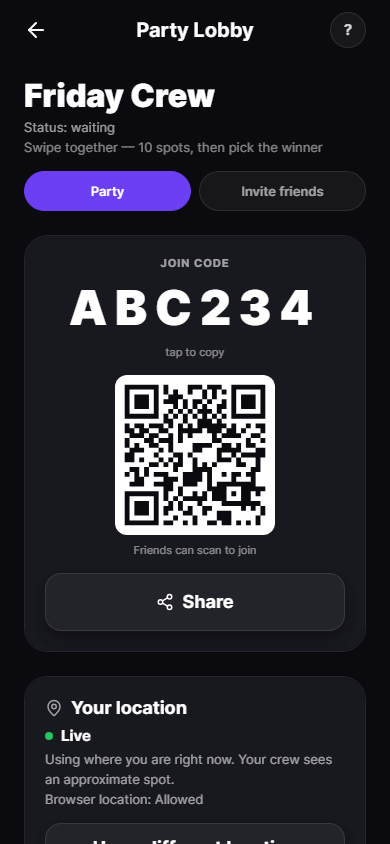
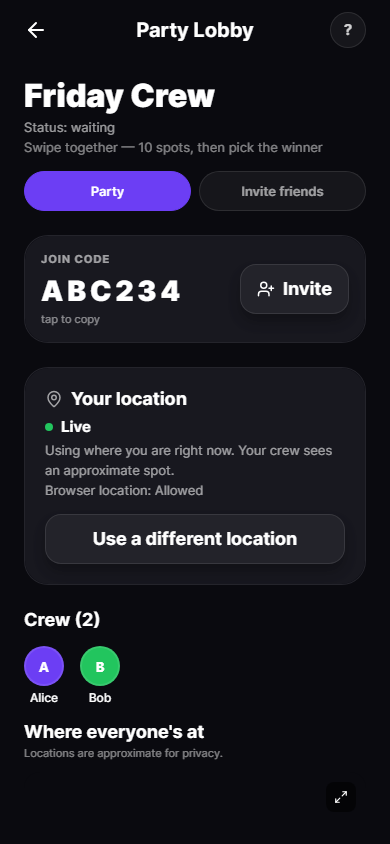
Lobby: move code, QR and Share to Invite friends; compact code row with Invite on Party tab

Changed region(s): [[0.0615, 0.2773, 0.9231, 1.0], [0.6154, 0.3081, 0.8615, 0.4005]]

diff --git a/mobile/src/screens/PartyLobbyScreen.tsx b/mobile/src/screens/PartyLobbyScreen.tsx
@@ -4,7 +4,7 @@ import { Chip, ScreenHeader, Tap } from '../components/kit';
 import { useNavigation, useRoute, useFocusEffect } from '@react-navigation/native';
 import { SafeAreaView } from 'react-native-safe-area-context';
 import Animated, { FadeInDown } from 'react-native-reanimated';
-import { Maximize2, Share2 } from '../components/icons';
+import { Maximize2, Share2, UserPlus } from '../components/icons';
 import GradientButton from '../components/GradientButton';
 import JoinQr from '../components/JoinQr';
 import { joinUrl } from '../services/joinLink';
@@ -207,11 +207,26 @@ export default function PartyLobbyScreen() {
                                 <Text style={styles.inviteHint}>
                                     Share your party code with friends — they can join in LinkdUp with this code.
                                 </Text>
-                                <GlassCard style={{ marginBottom: 16, alignItems: 'center' }}>
-                                    <Text style={styles.codeLabel}>CODE</Text>
+                                <GlassCard style={{ marginBottom: 24, alignItems: 'center' }}>
+                                    <Text style={styles.codeLabel}>JOIN CODE</Text>
                                     <Tap onPress={handleCopy} accessibilityLabel={`Copy join code ${code ?? ''}`} activeOpacity={0.8}>
                                         <Text style={styles.code}>{code ?? '------'}</Text>
                                     </Tap>
+                                    <Text style={styles.tapHint}>tap to copy</Text>
+                                    {code ? (
+                                        <View style={styles.qr}>
+                                            <JoinQr value={link} label={`QR code to join with ${code}`} />
+                                            <Text style={styles.tapHint}>Friends can scan to join</Text>
+                                        </View>
+                                    ) : null}
+                                    <GradientButton
+                                        title="Share"
+                                        variant="ghost"
+                                        onPress={handleShare}
+                                        disabled={!code}
+                                        leftIcon={<Share2 size={18} color={colors.textPrimary} />}
+                                        style={styles.shareBtn}
+                                    />
                                 </GlassCard>
                                 <Text style={styles.crewLabel}>Your friends</Text>
                                 {friendsList.length === 0 ? (
@@ -230,26 +245,21 @@ export default function PartyLobbyScreen() {
                         {lobbyTab === 'party' && (
                         <>
                         <View ref={codeCardRef}>
-                        <GlassCard style={{ marginVertical: 24, alignItems: 'center' }}>
-                            <Text style={styles.codeLabel}>JOIN CODE</Text>
-                            <Tap onPress={handleCopy} accessibilityLabel={`Copy join code ${code ?? ''}`} activeOpacity={0.8}>
-                                <Text style={styles.code}>{code ?? '------'}</Text>
-                            </Tap>
-                            <Text style={styles.tapHint}>tap to copy</Text>
-                            {code ? (
-                                <View style={styles.qr}>
-                                    <JoinQr value={link} label={`QR code to join with ${code}`} />
-                                    <Text style={styles.tapHint}>Friends can scan to join</Text>
-                                </View>
-                            ) : null}
-                            <GradientButton
-                                title="Share"
-                                variant="ghost"
-                                onPress={handleShare}
-                                disabled={!code}
-                                leftIcon={<Share2 size={18} color={colors.textPrimary} />}
-                                style={styles.shareBtn}
-                            />
+                        <GlassCard style={{ marginVertical: 24 }} padding={16}>
+                            <View style={styles.codeRow}>
+                                <Tap onPress={handleCopy} accessibilityLabel={`Copy join code ${code ?? ''}`} activeOpacity={0.8} style={{ flex: 1 }}>
+                                    <Text style={styles.codeLabel}>JOIN CODE</Text>
+                                    <Text style={styles.codeCompact}>{code ?? '------'}</Text>
+                                    <Text style={[styles.tapHint, { marginTop: 4 }]}>tap to copy</Text>
+                                </Tap>
+                                <GradientButton
+                                    title="Invite"
+                                    variant="ghost"
+                                    size="md"
+                                    onPress={() => setLobbyTab('invite')}
+                                    leftIcon={<UserPlus size={18} color={colors.textPrimary} />}
+                                />
+                            </View>
                         </GlassCard>
                         </View>
 
@@ -389,6 +399,8 @@ function makeStyles(c: AppColors, r: ColorRoles) {
         code: { color: c.textPrimary, fontFamily: 'Inter_900Black', fontSize: 48, letterSpacing: 8 },
         tapHint: { color: c.text40, fontSize: 11, marginTop: 8, fontFamily: 'Inter_400Regular' },
         qr: { alignItems: 'center', marginTop: 16 },
+        codeRow: { flexDirection: 'row', alignItems: 'center', gap: 12 },
+        codeCompact: { color: c.textPrimary, fontFamily: 'Inter_900Black', fontSize: 28, letterSpacing: 4 },
         shareBtn: { alignSelf: 'stretch', marginTop: 16 },
         crewLabel: { color: c.textPrimary, fontFamily: 'Inter_700Bold', fontSize: 18, marginBottom: 16 },
         crew: { flexDirection: 'row', flexWrap: 'wrap' },

diff --git a/mobile/screens-test/screens.test.js b/mobile/screens-test/screens.test.js
@@ -475,12 +475,35 @@ describe('PartyLobby', () => {
         }
     });
 
-    test('the back arrow, join code and Share are named buttons and Invite friends is a tab', async () => {
+    async function showInvite() {
+        await show(PartyLobbyScreen);
+        fireEvent.click(screen.getByRole('tab', { name: 'Invite friends' }));
+        await settle();
+    }
+
+    test('the Party tab keeps a compact join code and an Invite button, without the QR code or Share', async () => {
         await show(PartyLobbyScreen);
         button(/back/i);
         screen.getByRole('tab', { name: 'Invite friends' });
         button('Copy join code ABC234');
+        button('Invite');
+        expect(screen.queryByRole('button', { name: 'Share' })).toBeNull();
+        expect(screen.queryByRole('img', { name: 'QR code to join with ABC234' })).toBeNull();
+        expect(screen.queryByText('Friends can scan to join')).toBeNull();
+    });
+
+    test('Invite opens the Invite friends tab with the code, QR code, scan line, Share and friends list', async () => {
+        await show(PartyLobbyScreen);
+        fireEvent.click(button('Invite'));
+        await settle();
+        expect(screen.getByRole('tab', { name: 'Invite friends' }).getAttribute('aria-selected')).toBe('true');
+        expect(screen.getAllByRole('button', { name: 'Copy join code ABC234' })).toHaveLength(1);
+        screen.getByRole('img', { name: 'QR code to join with ABC234' });
+        screen.getByText('Friends can scan to join');
         button('Share');
+        screen.getByText('Your friends');
+        expect(screen.queryByText('CODE')).toBeNull();
+        expect(screen.queryByRole('button', { name: 'Invite' })).toBeNull();
     });
 
     describe('sharing the join code', () => {
@@ -499,8 +522,8 @@ describe('PartyLobby', () => {
         });
         const toasts = () => dialogs.getSnapshot().toasts.map((t) => t.message);
 
-        test('tapping the code copies it and says Code copied', async () => {
-            await show(PartyLobbyScreen);
+        test.each([['Party', show.bind(null, PartyLobbyScreen)], ['Invite friends', showInvite]])('tapping the code on the %s tab copies it and says Code copied', async (_, open) => {
+            await open();
             fireEvent.click(button('Copy join code ABC234'));
             await settle();
             expect(writeText).toHaveBeenCalledWith('ABC234');
@@ -510,7 +533,7 @@ describe('PartyLobby', () => {
         test('Share uses the Web Share API with the join link when the browser has it', async () => {
             const share = jest.fn(async () => {});
             Object.defineProperty(nav, 'share', { value: share, configurable: true });
-            await show(PartyLobbyScreen);
+            await showInvite();
             fireEvent.click(button('Share'));
             await settle();
             expect(share).toHaveBeenCalledWith(expect.objectContaining({ url: 'http://localhost/join/ABC234' }));
@@ -518,7 +541,7 @@ describe('PartyLobby', () => {
         });
 
         test('Share without the Web Share API copies the invite and says Code copied', async () => {
-            await show(PartyLobbyScreen);
+            await showInvite();
             fireEvent.click(button('Share'));
             await settle();
             expect(writeText).toHaveBeenCalledWith(expect.stringContaining('ABC234'));
@@ -529,15 +552,15 @@ describe('PartyLobby', () => {
         test('cancelling the share sheet does not copy', async () => {
             const share = jest.fn(async () => { throw Object.assign(new Error('cancel'), { name: 'AbortError' }); });
             Object.defineProperty(nav, 'share', { value: share, configurable: true });
-            await show(PartyLobbyScreen);
+            await showInvite();
             fireEvent.click(button('Share'));
             await settle();
             expect(writeText).not.toHaveBeenCalled();
         });
     });
 
-    test('the lobby shows a QR code of the join link', async () => {
-        await show(PartyLobbyScreen);
+    test('the Invite friends tab shows a QR code of the join link', async () => {
+        await showInvite();
         const qr = screen.getByRole('img', { name: 'QR code to join with ABC234' });
         expect(qr.querySelector('path')).not.toBeNull();
     });

diff --git a/mobile/src/components/kit.tsx b/mobile/src/components/kit.tsx
@@ -156,6 +156,7 @@ export function Chip({ label, selected, onPress, icon, role = 'tab', style }: { 
             accessibilityRole={role}
             accessibilityState={role === 'radio' ? { checked: selected } : { selected }}
             aria-checked={role === 'radio' ? selected : undefined}
+            aria-selected={role === 'tab' ? selected : undefined}
             onPress={onPress}
             style={[styles.chip, selected && styles.chipOn, style]}
         >
